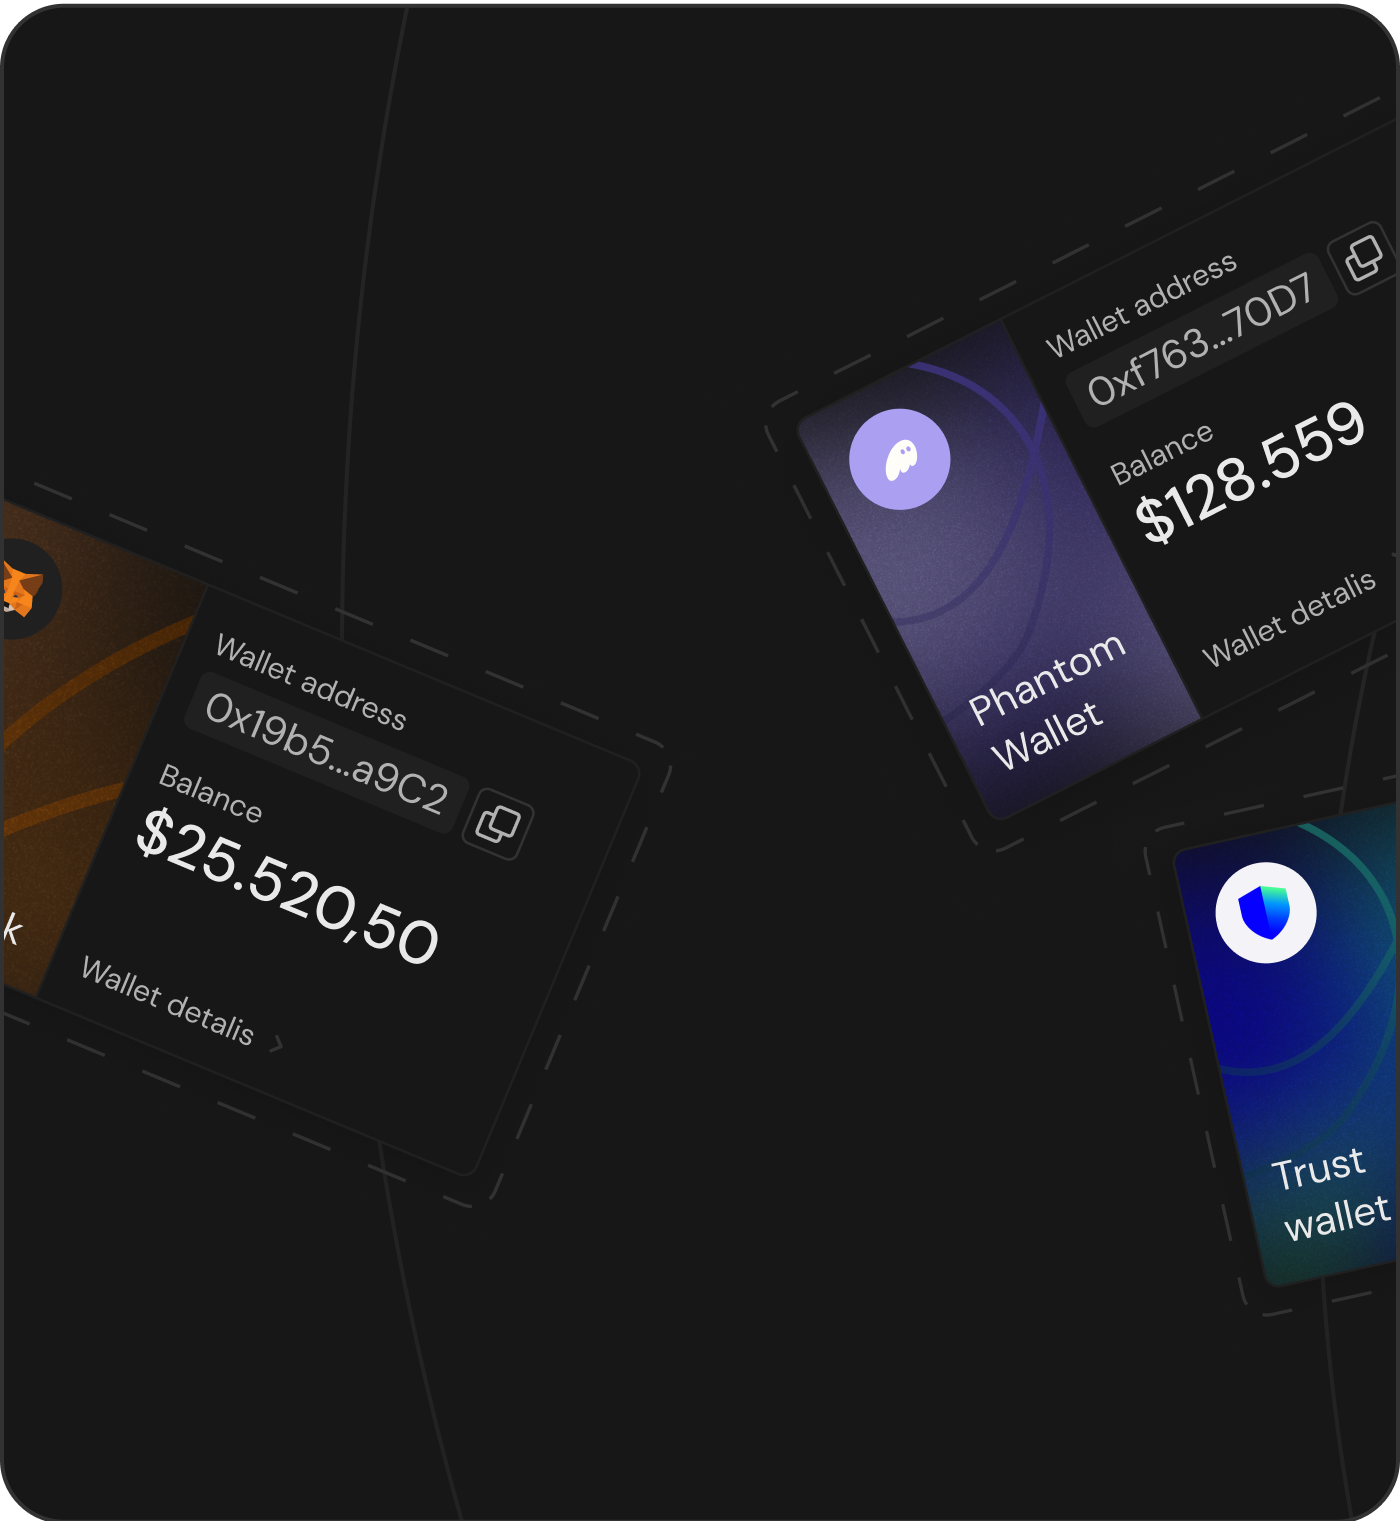
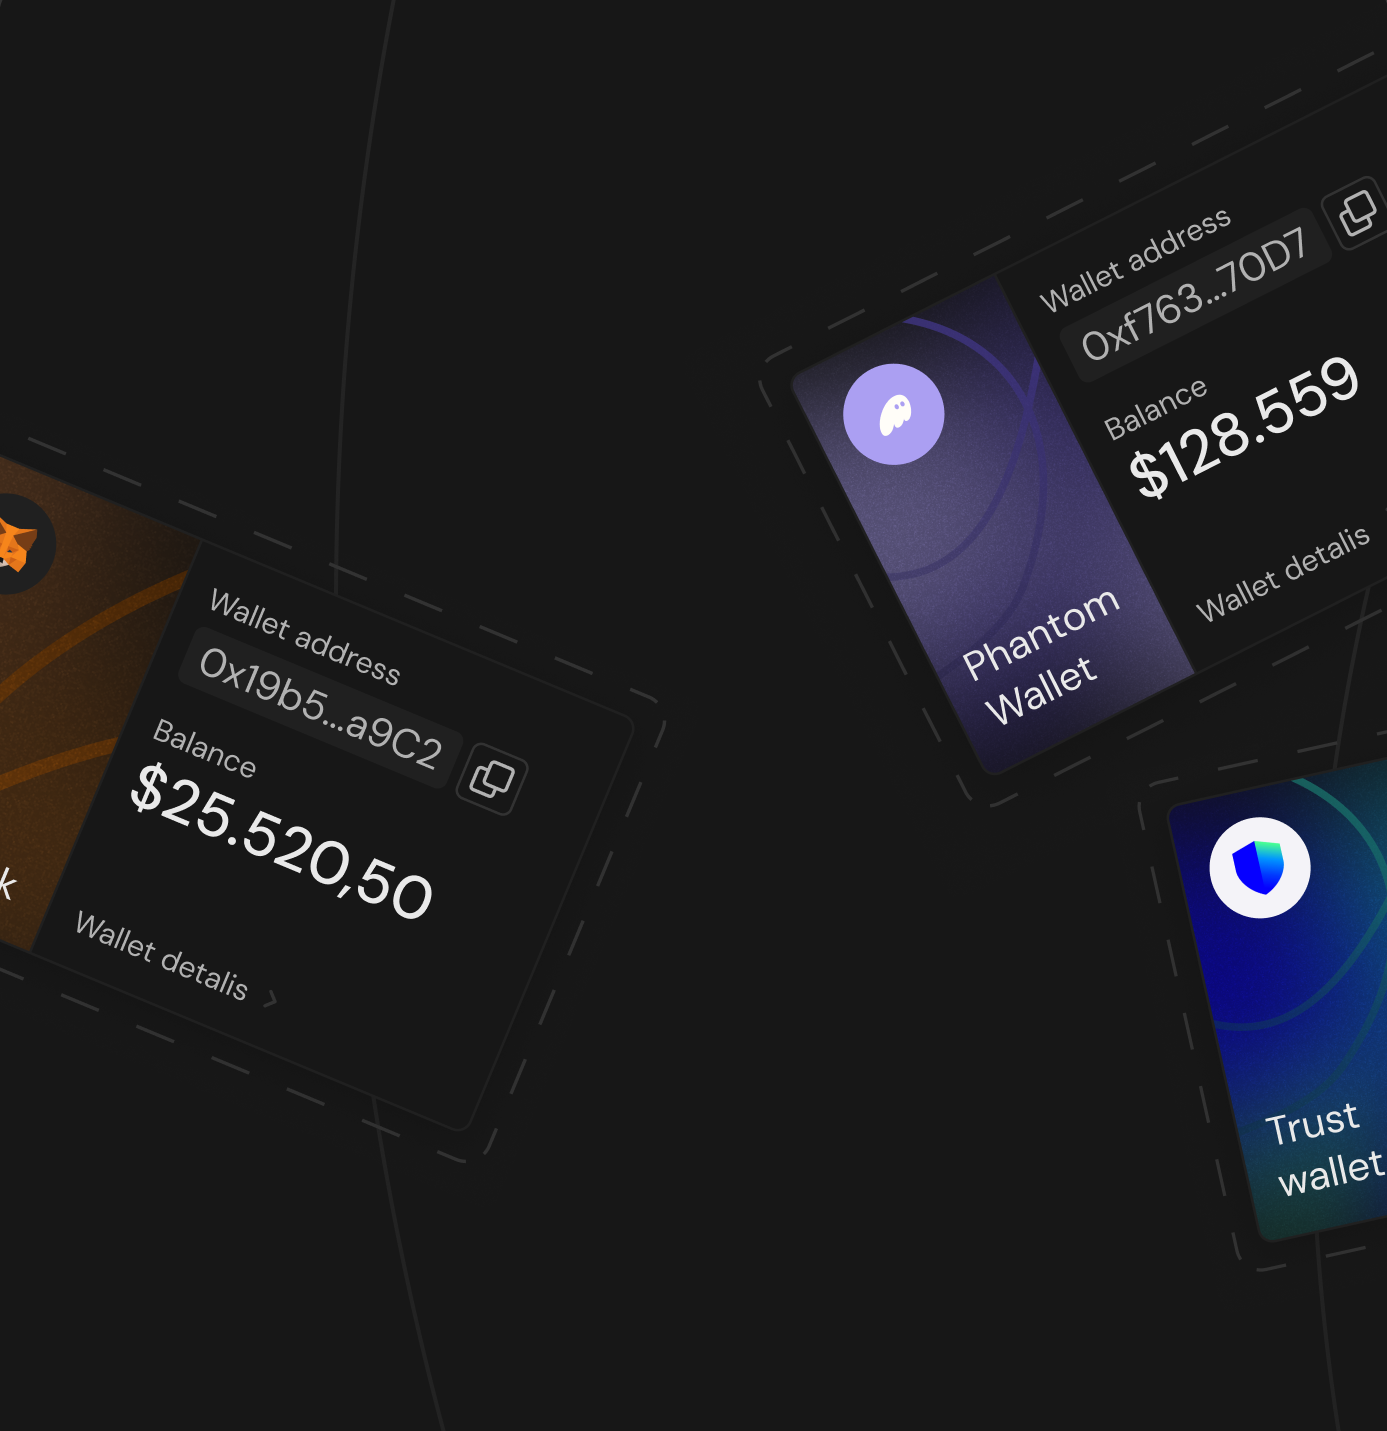
Fixing border issue

diff --git a/src/components/landing/landing.css b/src/components/landing/landing.css
@@ -639,11 +639,8 @@
   .crypto-wallet-mobile-title {
     color: #b1b1b1;
     width: 60%;
-    font-family: "DM Sans";
     font-size: 2rem;
-    font-style: normal;
     font-weight: 500;
-    line-height: normal;
   }
   .mobile-view-wallet-images {
     padding: 2.4rem;
@@ -651,6 +648,8 @@
     flex-direction: column;
     height: 100%;
     justify-content: space-between;
+    border: 1px solid #323232;
+    border-radius: 16px;
   }
 }
 .landing-layout .ico-card {
